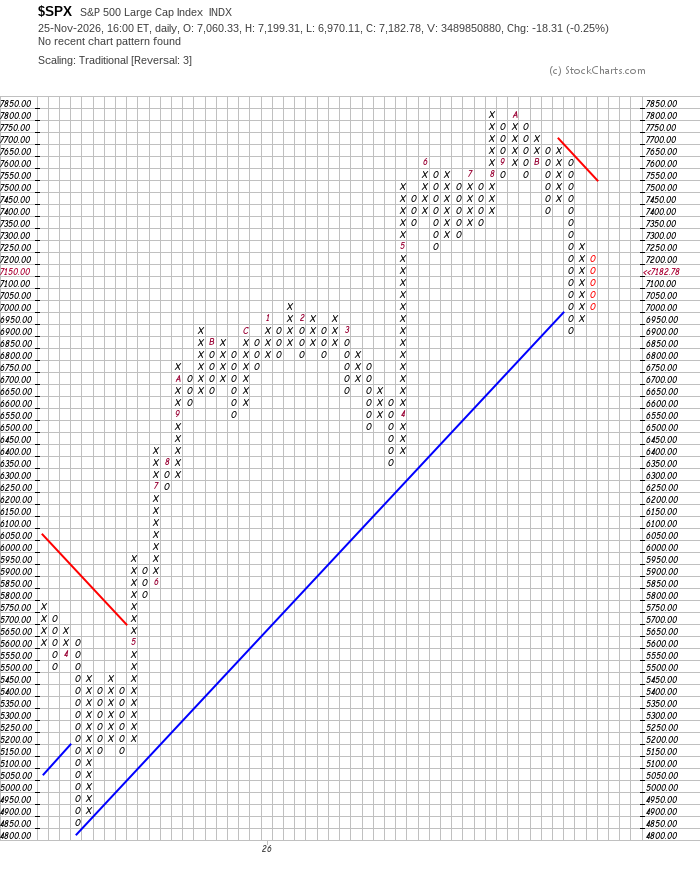
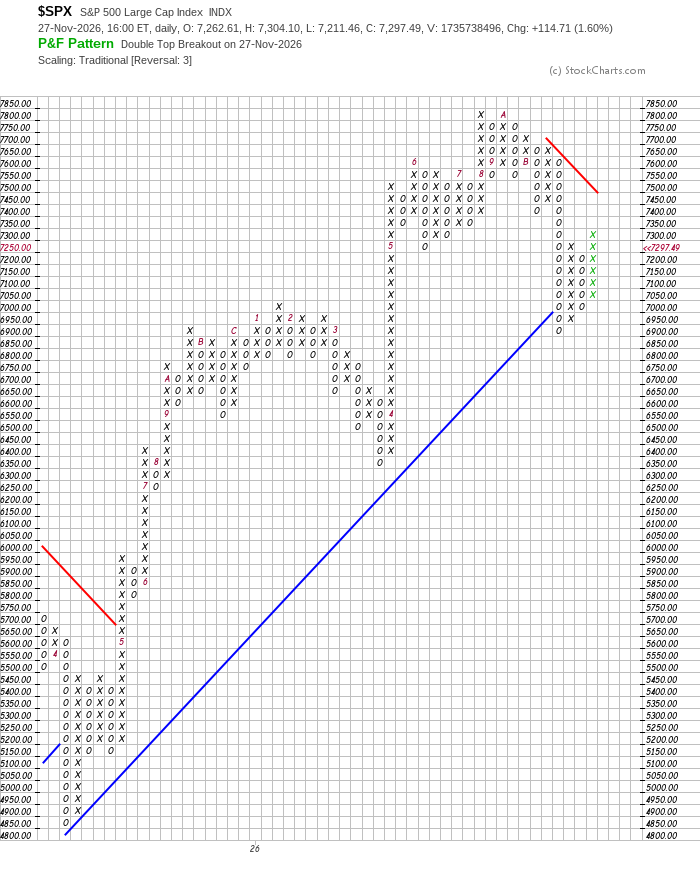
Market analysis update - 2026-11-28 12:12 UTC

diff --git a/data/Shazam-market-daily.html b/data/Shazam-market-daily.html
@@ -3,7 +3,7 @@
 <head>
     <meta charset="UTF-8">
     <meta name="viewport" content="width=device-width, initial-scale=1.0">
-    <title>Market Analysis Report - 2026-11-27</title>
+    <title>Market Analysis Report - 2026-11-28</title>
     <style>
         * {
             margin: 0;
@@ -188,7 +188,7 @@
     <div class="container">
         <div class="header">
             <h1>📊 Market Analysis Report</h1>
-            <div class="date">2026-11-27 • 12:59:54 UTC</div>
+            <div class="date">2026-11-28 • 12:12:20 UTC</div>
         </div>
         
         <div class="content">
@@ -221,18 +221,18 @@
                         <tr>
                             <td class="symbol-highlight">SPY</td>
                             <td>S&P 500</td>
-                            <td>716.70</td>
-                            <td>0.23</td>
-                            <td>8</td>
-                            <td>12</td>
+                            <td>728.32</td>
+                            <td>1.61</td>
+                            <td>9</td>
+                            <td>-48</td>
                             <td>Distribution</td>
-                            <td class="negative">-1.85%</td>
-                            <td class="negative">-6.45%</td>
-                            <td class="negative">-5.02%</td>
-                            <td>5.10</td>
-                            <td>-2.72</td>
+                            <td class="positive">1.73%</td>
+                            <td class="negative">-5.56%</td>
+                            <td class="negative">-3.74%</td>
+                            <td>6.80</td>
+                            <td>-1.58</td>
                             <td><span class="badge badge-bear">BEAR</span></td>
-                            <td><span class="badge badge-bear">BEAR</span></td>
+                            <td><span class="badge badge-warn">RECO!</span></td>
                             <td><span class="badge badge-warn">n.a.</span></td>
                             <td><span class="badge badge-bear">BEAR+</span></td>
                         </tr>
@@ -240,18 +240,18 @@
                         <tr>
                             <td class="symbol-highlight">QQQ</td>
                             <td>Nasdaq</td>
-                            <td>633.93</td>
-                            <td>-0.24</td>
-                            <td>4</td>
-                            <td>40</td>
+                            <td>650.99</td>
+                            <td>2.47</td>
+                            <td>2</td>
+                            <td>-58</td>
                             <td>Distribution</td>
-                            <td class="negative">-3.88%</td>
-                            <td class="negative">-10.89%</td>
-                            <td class="negative">-13.82%</td>
-                            <td>3.19</td>
-                            <td>-6.87</td>
+                            <td class="positive">0.70%</td>
+                            <td class="negative">-9.92%</td>
+                            <td class="negative">-12.02%</td>
+                            <td>5.97</td>
+                            <td>-5.03</td>
                             <td><span class="badge badge-bear">BEAR</span></td>
-                            <td><span class="badge badge-bear">BEAR</span></td>
+                            <td><span class="badge badge-warn">RECO!</span></td>
                             <td><span class="badge badge-bear">BEAR</span></td>
                             <td><span class="badge badge-bear">BEAR+</span></td>
                         </tr>
@@ -259,37 +259,37 @@
                         <tr>
                             <td class="symbol-highlight">IWM</td>
                             <td>Russell</td>
-                            <td>268.87</td>
-                            <td>1.19</td>
-                            <td>10</td>
-                            <td>6</td>
+                            <td>273.79</td>
+                            <td>1.68</td>
+                            <td>5</td>
+                            <td>-58</td>
                             <td>Bearish</td>
-                            <td class="negative">-0.46%</td>
-                            <td class="negative">-10.06%</td>
-                            <td class="negative">-7.93%</td>
-                            <td>9.23</td>
-                            <td>-3.56</td>
+                            <td class="positive">3.47%</td>
+                            <td class="negative">-8.81%</td>
+                            <td class="negative">-5.86%</td>
+                            <td>11.22</td>
+                            <td>-2.30</td>
                             <td><span class="badge badge-bear">BEAR</span></td>
-                            <td><span class="badge badge-accu">ACCU!</span></td>
+                            <td><span class="badge badge-accu">ACCU</span></td>
                             <td><span class="badge badge-warn">RECO</span></td>
-                            <td><span class="badge badge-bear">BEAR</span></td>
+                            <td><span class="badge badge-bull">BULL</span></td>
                         </tr>
 
                         <tr>
                             <td class="symbol-highlight">DIA</td>
                             <td>Dow</td>
-                            <td>501.27</td>
-                            <td>0.82</td>
-                            <td>14</td>
-                            <td>3</td>
+                            <td>507.60</td>
+                            <td>1.23</td>
+                            <td>5</td>
+                            <td>-54</td>
                             <td>Distribution</td>
-                            <td class="negative">-0.09%</td>
-                            <td class="negative">-6.17%</td>
-                            <td class="negative">-1.14%</td>
-                            <td>4.31</td>
-                            <td>-1.05</td>
+                            <td class="positive">3.43%</td>
+                            <td class="negative">-5.16%</td>
+                            <td class="negative">-0.62%</td>
+                            <td>5.62</td>
+                            <td>-0.29</td>
                             <td><span class="badge badge-bear">BEAR</span></td>
-                            <td><span class="badge badge-bear">BEAR</span></td>
+                            <td><span class="badge badge-accu">ACCU!</span></td>
                             <td><span class="badge badge-bull">BULL</span></td>
                             <td><span class="badge badge-bear">BEAR</span></td>
                         </tr>
@@ -297,19 +297,19 @@
                         <tr>
                             <td class="symbol-highlight">VTI</td>
                             <td>Total Market Index</td>
-                            <td>353.20</td>
-                            <td>0.37</td>
-                            <td>9</td>
-                            <td>44</td>
+                            <td>359.40</td>
+                            <td>1.53</td>
+                            <td>2</td>
+                            <td>-69</td>
                             <td>Distribution</td>
-                            <td class="negative">-1.75%</td>
-                            <td class="negative">-6.62%</td>
-                            <td class="negative">-4.97%</td>
-                            <td>4.38</td>
-                            <td>-2.69</td>
+                            <td class="positive">1.98%</td>
+                            <td class="negative">-5.58%</td>
+                            <td class="negative">-3.53%</td>
+                            <td>6.21</td>
+                            <td>-1.62</td>
                             <td><span class="badge badge-bear">BEAR</span></td>
-                            <td><span class="badge badge-bear">BEAR</span></td>
-                            <td><span class="badge badge-warn">RECO</span></td>
+                            <td><span class="badge badge-warn">RECO!</span></td>
+                            <td><span class="badge badge-warn">ACCU!</span></td>
                             <td><span class="badge badge-bear">BEAR+</span></td>
                         </tr>
 
@@ -322,52 +322,40 @@
                 <h2>🤖 AI Analysis by Google Gemini</h2>
                 <div class="analysis-box">
 ## **Market Report - S&P 500 & Nasdaq 100**
-**Source: MarketGauge Big View | Date: 2026-11-27**
+**Source: MarketGauge Big View | Date: 2026-11-28**
 
 ### **S&P 500 (SPY)**
-Analyze using ONLY the SPY row data:
-- Short-term (5-day): -1.85 - Status and trend: Negative, downward trend.
-- Medium-term (3-month): -6.45 - Status and trend: Negative, downward trend.
-- Long-term (6-month): -5.02 - Status and trend: Negative, downward trend.
-- Technical indicators: Phase=Distribution, TSI=-2.72, RM50=BEAR, RM10=BEAR
+- Short-term (5-day): 1.73% - Positive trend
+- Medium-term (3-month): -5.56% - Negative trend
+- Long-term (6-month): -3.74% - Negative trend
+- Technical indicators: Phase=Distribution, TSI=-1.58, RM50=BEAR, RM10=RECO!
 
 ### **Nasdaq 100 (QQQ)**
-Analyze using ONLY the QQQ row data:
-- Short-term (5-day): -3.88 - Status and trend: Negative, significant downward trend.
-- Medium-term (3-month): -10.89 - Status and trend: Negative, strong downward trend.
-- Long-term (6-month): -13.82 - Status and trend: Negative, very strong downward trend.
-- Technical indicators: Phase=Distribution, TSI=-6.87, RM50=BEAR, RM10=BEAR
+- Short-term (5-day): 0.70% - Positive trend
+- Medium-term (3-month): -9.92% - Negative trend
+- Long-term (6-month): -12.02% - Negative trend
+- Technical indicators: Phase=Distribution, TSI=-5.03, RM50=BEAR, RM10=RECO!
 
 ### **S&P 500 Point & Figure (P&F) Chart Analysis**
-The $SPX P&F chart (daily, 3-box reversal) was read automatically for 2026-11-27.
-
-**Computed column status:**
-Today (2026-11-27): active column = O, boxes = 4
-Previous session (2026-11-26): column = O, boxes = 4
-Same O column continuing (4 → 4 boxes)
-Signal already active (>= 3 boxes), column extending
-
-Based on the above facts, provide your P&F commentary: is a signal active? is it corroborated? what is the directional bias?
-**Commentary:** A downtrend signal is active, as indicated by the 'O' column. This signal is corroborated because the column has extended to 4 boxes, exceeding the minimum requirement of 3 for corroboration. The directional bias is bearish.
+The $SPX P&F chart shows a new X column with 4 boxes today, following a previous O column with 4 boxes. According to the P&F signal rules, 3x X in a new column generates an uptrend signal. With 4 boxes in the new X column, this signal is corroborated. Therefore, a bullish directional bias is indicated by the P&F chart.
 
 ### **Critical Comparison**
-- Compare 5-day, 3-month, 6-month performances
-    - SPY: -1.85 (5-day), -6.45 (3-month), -5.02 (6-month)
-    - QQQ: -3.88 (5-day), -10.89 (3-month), -13.82 (6-month)
-    - The Nasdaq 100 (QQQ) has underperformed the S&P 500 (SPY) across all timeframes, exhibiting steeper declines in the 5-day, 3-month, and 6-month periods.
-- Compare technical indicators between SPY and QQQ
-    - Both SPY and QQQ are in a 'Distribution' phase.
-    - Both have negative TSI values, with QQQ's TSI (-6.87) being more negative than SPY's (-2.72).
-    - Both have RM50 and RM10 indicators as 'BEAR'.
-- Identify divergences
-    - There are no significant divergences in the analyzed technical indicators between SPY and QQQ; both are exhibiting similar bearish technical characteristics. The primary divergence is in the magnitude of their recent performance, with QQQ showing more pronounced weakness.
+- **5-day performances:** SPY (1.73%) is stronger than QQQ (0.70%).
+- **3-month performances:** SPY (-5.56%) is stronger than QQQ (-9.92%).
+- **6-month performances:** SPY (-3.74%) is stronger than QQQ (-12.02%).
+- **Technical indicators between SPY and QQQ:**
+    - Both SPY and QQQ are in the "Distribution" phase.
+    - SPY's TSI (-1.58) is higher than QQQ's TSI (-5.03).
+    - Both have RM50 as "BEAR".
+    - Both have RM10 as "RECO!".
+- **Divergences:** While both indices show negative medium and long-term trends, the S&P 500 (SPY) is outperforming the Nasdaq 100 (QQQ) across all timeframes (5-day, 3-month, and 6-month). SPY also has a higher TSI, suggesting slightly better momentum.
 
 ### **Summary**
-- Short-term outlook based on data: Bearish. Both SPY and QQQ show negative 5-day performance and are in a Distribution phase.
-- Medium-term outlook based on data: Bearish. Both indices have experienced significant declines over the past 3 months, with QQQ showing more pronounced weakness.
-- Long-term outlook based on data: Bearish. Both indices are down over the past 6 months, with QQQ experiencing a more substantial loss.
-- **P&F Chart Signal:** Today (2026-11-27): active column = O, boxes = 4 — conclude Bearish
-- Key alerts or observations: The market, as represented by SPY and QQQ, is exhibiting broad weakness across short, medium, and long-term timeframes. The Nasdaq 100 is showing more significant underperformance compared to the S&P 500. The P&F chart for the S&P 500 confirms a bearish trend with corroboration.
+- Short-term outlook based on data: Positive, with SPY showing stronger recent gains.
+- Medium-term outlook based on data: Negative, with both indices experiencing losses.
+- Long-term outlook based on data: Negative, with both indices experiencing losses, though SPY is less impacted.
+- **P&F Chart Signal:** Today (2026-11-28): active column = X, boxes = 4 — conclude Bullish
+- Key alerts or observations: The P&F chart has triggered a corroborated bullish signal, which contrasts with the current negative medium and long-term trends indicated by other data points. SPY is showing resilience relative to QQQ.
                 </div>
             </div>
         </div>
